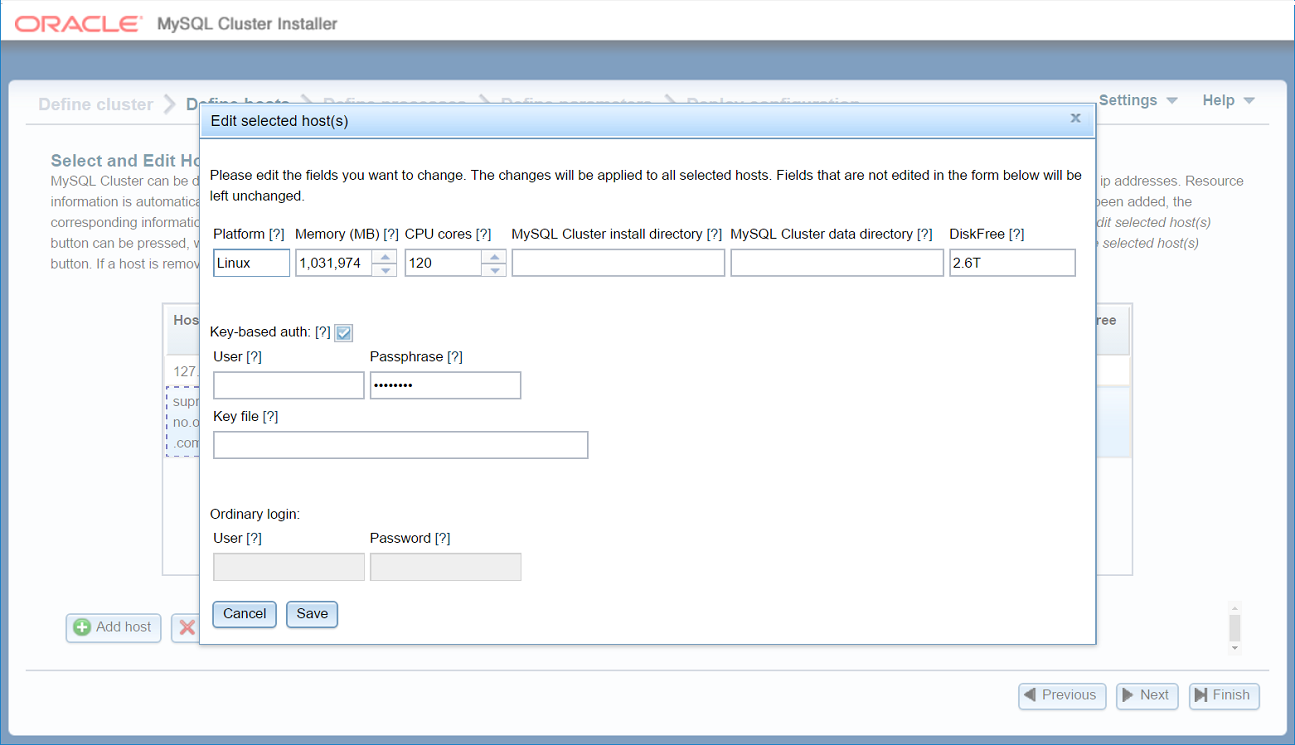
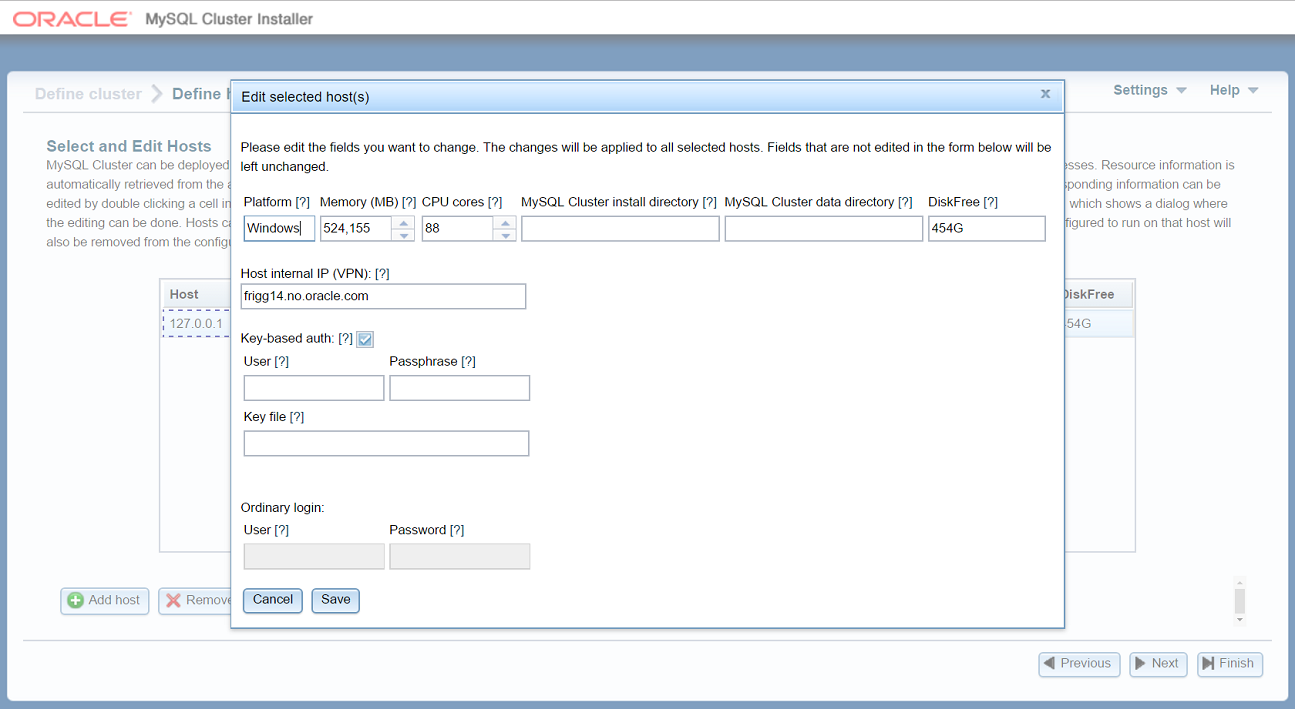
WL#10426: Introduced InternalIP member On cloud installations there is usually an external IP address used to SSH into the VM or machine. This IP address is not intended to be used internally between machines in the cloud. Communications between nodes in the cluster is most likely happening internal

diff --git a/storage/ndb/mcc/frontend/js/mcc/gui/hostdef.js b/storage/ndb/mcc/frontend/js/mcc/gui/hostdef.js
@@ -162,6 +162,8 @@ function addHostList(event) {
                         nhost[0].setValue("key_file", null);
                     }
                     nhost[0].setValue("key_auth", dijit.byId("sd_key_auth").get("checked"));
+                    if (dijit.byId("sd_IntIP").getValue())
+                        nhost[0].setValue("internalIP", dijit.byId("sd_IntIP").get("value"));
                     mcc.util.dbg("Saving credentials for new host " + nhost[0].getValue("name"));
                     mcc.storage.hostStorage().save();
                     mcc.storage.getHostResourceInfo(
@@ -238,7 +240,10 @@ function addHostsDialogSetup() {
                     <p>\
                         Host name: \
                         <span class=\"helpIcon\" id=\"hostlist_qm\">[?]</span>\
-                        <span id='hostlist'></span>\
+                        <br /><span id='hostlist'></span>\
+                        <br />Host internal IP (VPN): \
+                        <span class=\"helpIcon\" id=\"sd_IntIP_qm\">[?]</span>\
+                        <br /><span id='sd_IntIP'></span>\
                         <br /><br />Key-based auth: \
                         <span class=\"helpIcon\" id=\"sd_key_auth_qm\">[?]</span>\
                         <span id='sd_key_auth'></span>\
@@ -296,12 +301,19 @@ function addHostsDialogSetup() {
         });
         // Must connect outside of html to be in scope of function
         dojo.connect(dijit.byId("addHostsForm"), "onSubmit", addHostList);
-        var hostlist= new dijit.form.ValidationTextBox({style: "width: 250px"}, "hostlist");
+        var hostlist= new dijit.form.ValidationTextBox({style: "width: 245px"}, "hostlist");
         hostlist.required = true;
         hostlist.missingMessage = "This field must have value!";
         var hostlist_tt = new dijit.Tooltip({
             connectId: ["hostlist", "hostlist_qm"],
             label: "Name or ip addresses of host\
+                    to use for running MySQL cluster"
+        });
+
+        var sd_IntIP = new dijit.form.ValidationTextBox({style: "width: 245px"}, "sd_IntIP");
+        var sd_IntIP_tt = new dijit.Tooltip({
+            connectId: ["sd_IntIP", "sd_IntIP_qm"],
+            label: "If running Cluster inside VPN, internal ip addresses of host\
                     to use for running MySQL cluster"
         });
 
@@ -356,7 +368,7 @@ function addHostsDialogSetup() {
                 label: "Passphrase for the key."
             });
 
-            var sd_key_file = new dijit.form.TextBox({style: "width: 300px"}, "sd_key_file");
+            var sd_key_file = new dijit.form.TextBox({style: "width: 245px"}, "sd_key_file");
             dojo.connect(sd_key_file, "onChange", updateHostAuth);
             var sd_key_file_tt = new dijit.Tooltip({
                 connectId: ["sd_key_file", "sd_key_file_qm"],
@@ -386,8 +398,8 @@ function saveSelectedHosts(event) {
                     getValue(selection[i], "uname");
             if (dijit.byId("uname").getValue() && dijit.byId("uname").getValue() != uname) {
                 uname = dijit.byId("uname").getValue();
-                mcc.storage.hostStorage().store().setValue(selection[i], 
-                    "uname", uname);
+                mcc.storage.hostStorage().store().setValue(selection[i],
+                     "uname", uname);
                 mcc.util.dbg("Updating uname, check predef dirs");
                 // If we changed platform, we need to update predef dirs
                 if (mcc.storage.hostStorage().store().getValue(selection[i], 
@@ -442,6 +454,11 @@ function saveSelectedHosts(event) {
             if (dijit.byId("diskfree").getValue() && dijit.byId("diskfree").getValue() != hsval) {
                 mcc.storage.hostStorage().store().setValue(selection[i], 
                         "diskfree", dijit.byId("diskfree").getValue());
+            }
+
+            if (dijit.byId("sd_IntIPedit").getValue()) {
+                mcc.storage.hostStorage().store().setValue(selection[i], 
+                        "internalIP", dijit.byId("sd_IntIPedit").getValue());
             }
             // Update credentials if necessary.
             if (dijit.byId("sd_usredit").getValue()) {
@@ -579,6 +596,9 @@ function editHostsDialogSetup() {
                             <td><span id='diskfree'></span></td>\
                         </tr>\
                     </table>\
+                    <br />Host internal IP (VPN): \
+                    <span class=\"helpIcon\" id=\"sd_IntIPedit_qm\">[?]</span>\
+                    <br /><span id='sd_IntIPedit'></span>\
                     <br /><br />Key-based auth: \
                     <span class=\"helpIcon\" id=\"sd_key_authedit_qm\">[?]</span>\
                     <span id='sd_key_authedit'></span>\
@@ -679,6 +699,13 @@ function editHostsDialogSetup() {
             connectId: ["diskfree_qm"],
             label: getFieldTT("diskfree")
         });
+
+        var sd_IntIPedit = new dijit.form.ValidationTextBox({style: "width: 245px"}, "sd_IntIPedit");
+        var sd_IntIPedit_tt = new dijit.Tooltip({
+            connectId: ["sd_IntIPedit", "sd_IntIPedit_qm"],
+            label: "If running Cluster inside VPN, internal ip addresses of host\
+                    to use for running MySQL cluster"
+        });
         
         // Credentials definition
         var sd_key_authedit = new dijit.form.CheckBox({}, "sd_key_authedit");
@@ -727,7 +754,7 @@ function editHostsDialogSetup() {
             label: "Passphrase for the key."
         });
 
-        var sd_key_fileedit = new dijit.form.TextBox({style: "width: 300px"}, "sd_key_fileedit");
+        var sd_key_fileedit = new dijit.form.TextBox({style: "width: 245px"}, "sd_key_fileedit");
         dojo.connect(sd_key_fileedit, "onChange", updateHostAuthE);
         var sd_key_fileedit_tt = new dijit.Tooltip({
             connectId: ["sd_key_fileedit", "sd_key_fileedit_qm"],
@@ -815,13 +842,19 @@ function hostGridSetup() {
         var selection = hostGrid.selection.getSelected();
         if (selection && selection.length > 0) {
             for (var i in selection) {
-
                 dijit.byId("uname").setValue(mcc.storage.hostStorage().store().getValue(selection[i], "uname"));//null);
                 dijit.byId("ram").setValue(mcc.storage.hostStorage().store().getValue(selection[i], "ram"));//null);
                 dijit.byId("cores").setValue(mcc.storage.hostStorage().store().getValue(selection[i], "cores"));//null);
-                dijit.byId("installdir").setValue(null); //Needs to account for termination!
-                dijit.byId("datadir").setValue(null); //Needs to account for termination!
+                dijit.byId("installdir").setValue(null);
+                dijit.byId("datadir").setValue(null);
                 dijit.byId("diskfree").setValue(mcc.storage.hostStorage().store().getValue(selection[i], "diskfree")); //null);
+
+                var val = mcc.storage.hostStorage().store().getValue(selection[i], "internalIP");
+                if (val) {
+                    dijit.byId("sd_IntIPedit").setValue(val);
+                } else {
+                    dijit.byId("sd_IntIPedit").setValue(null);
+                }
 
                 var hasCreds = false;
                 var val = mcc.storage.hostStorage().store().getValue(selection[i], "usr");

diff --git a/storage/ndb/mcc/frontend/hlp/html/help_cnt.html b/storage/ndb/mcc/frontend/hlp/html/help_cnt.html
@@ -357,7 +357,7 @@ Default path to wizard startup command: <tt>C:\Program Files\MySQL_blabla\bin\nd
     at the first page. </li>
 <li><i>Automatically save configuration as cookies: </i>This will save your 
     configuration information (host names, processes, parameter values etc.) as 
-    a cookie in the browser you are using. All information <b>except the SSH password</b> 
+    a cookie in the browser you are using. All information <b>but password/passphrase</b> 
     will be saved. Hence, you can quit and restart you browser, and continue 
     working on the same configuration. </li>
 <li><i>Show advanced configuration options: </i>This setting means that advanced 
@@ -521,8 +521,8 @@ Default path to wizard startup command: <tt>C:\Program Files\MySQL_blabla\bin\nd
 </p>
 
 <p>Here, hosts can be added by pressing the <i>Add hosts</i> button and entering 
-    host name or ip address as well as credentials which are saved on Host level 
-    (host.mcc_hostStore cookie), passwords/passphrases excluded. Field 
+    host name or external ip address as well as credentials which are saved on
+    Host level (host.mcc_hostStore cookie), passwords/passphrases excluded. Field 
     <i>Key_file<i> should point to private key file to be used with selected host
     (i.e. C:\Users\user\.ssh\key_file_name).
     Please bear in mind that, since passwords are not persisted over sessions,
@@ -564,6 +564,46 @@ Default path to wizard startup command: <tt>C:\Program Files\MySQL_blabla\bin\nd
 <p style="text-align: center">
     <img src="../img/edit_selected_hosts.png" width="800" alt="Edit selected hosts">
 </p>
+
+<h4>Details on hosts naming</h4>
+<p>One should always keep in mind the goal, i.e. deployment of the Cluster over  
+    any number of hosts. The nodes are governed by config.ini file, distributed 
+    to each one, containing hosts designation on process basis as well as  
+    connection strings. It might look like this:<br/>
+    <code>[NDB_MGMD]
+    <br/>NodeId=49
+    <br/>HostName=10.172.165.190
+    <br/>DataDir=C:/Users/user/MySQL_Cluster/49/
+    <br/>Portnumber=1186
+    <br/>[NDBD]
+    <br/>NodeId=2
+    <br/>HostName=10.172.162.24
+    <br/>DataDir=C:/Users/user/MySQL_Cluster/2/</code><br/>
+    In this particular case, HostName=10.172.162.24 is actually localhost defined as
+    Name=127.0.0.1 but when config.ini is distributed to second host, 127.0.0.1 will
+    point to that host (10.172.165.190) and the Cluster will not start. This is why 
+    following mechanism is implemented:<br/>
+    When you enter Host=..., back-end Python web server fetches fully qualified domain
+    name (FQDN) based on your input and stores it in Host cookie store. It also copies
+    FQDN to InternalIP member if that one is empty. We encourage you to also enter 
+    Internal IP when adding/editing hosts if Cluster is running inside VPN (say Cloud
+    deployment).<br/>
+    Let's recapitulate various scenarios:
+    <ul>
+    <li><b>Small localhost deployment: </b> 
+        Just leave default 127.0.0.1 in HostList on 1st page. </li>
+    <li><b>Small deployment, home or office network: </b>
+        Leave default 127.0.0.1 in HostList on 1st page, add other hosts using 
+        "Add Host" button on next page. You can safely ignore InternalIP member. </li>
+    <li><b>Deployment to Cloud/other VPN environment: </b>
+        If you are using localhost too, edit that host on 2nd page and add Internal IP 
+        information. When adding hosts on 2nd page, fill in Internal IP member. </li>
+    </ul>
+    MCC will always use FQDN member to connect, distribute configuration and start processes
+    while configuration files and Cluster processes will always use Internal IP member.
+    This way there can be no confusion as to what "localhost" means and the communication
+    between nodes will be as fast as possible bypassing possible errors on DNS level.
+    </p>
 
 <!-- ======================= Define processes ============================== -->
 

diff --git a/storage/ndb/mcc/frontend/js/mcc/configuration/deploy.js b/storage/ndb/mcc/frontend/js/mcc/configuration/deploy.js
@@ -269,7 +269,7 @@ function verifyConfiguration() {
     // Alert if NoOfReplicas==2 for an odd number of data nodes
     var noOfReplicas = getEffectiveTypeValue(processFamilyMap['data'], 'NoOfReplicas');
     if (processFamilyInstances('data').length % 2 == 1 && noOfReplicas == 2) {
-        alert("With an uneven number of data nodes, the number of replicas " +
+        alert("With an odd number of data nodes, the number of replicas " +
         "(NoOfReplicas) must be set to 1");
         return false;
     }
@@ -689,15 +689,15 @@ function getEffectiveInstalldir(host) {
     return host.getValue("installdir");
 }
 
-// Get the connect string for this cluster, use FQDN and not hostname.
+// Get the connect string for this cluster, use FQDN/internalIP and not hostname.
 function getConnectstring() {
     var connectString = "";
     var mgmds = processTypeInstances("ndb_mgmd");
     // Loop over all ndb_mgmd processes
     for (var i in mgmds) {
         var port = getEffectiveInstanceValue(mgmds[i], "Portnumber");
-        // Use fqdn instead of name:
-        var host = clusterItems[mgmds[i].getValue("host")].getValue("fqdn");
+        // Use internal IP instead of name:
+        var host = clusterItems[mgmds[i].getValue("host")].getValue("internalIP");
         connectString += host + ":" + port + ",";
     }
     return connectString;
@@ -817,7 +817,7 @@ function getCreateCommands() {
             // Get datadir and dir separator
             var datadir = mcc.util.unixPath(
                     mcc.util.terminatePath(
-                            getEffectiveInstanceValue(process, "DataDir")));
+                        getEffectiveInstanceValue(process, "DataDir")));
             var dirSep = mcc.util.dirSep(datadir);
 
             // Push the create datadir command unless mysqld

diff --git a/storage/ndb/mcc/frontend/js/mcc/storage/MCCStorage.js b/storage/ndb/mcc/frontend/js/mcc/storage/MCCStorage.js
@@ -423,8 +423,8 @@ function getHostResourceInfo(hostName, hostId, showAlert, override) {
                         }
                         if (!host.getValue("datadir") &&
                                 reply.body.hostRes.datadir) {
-                            var path = mcc.util.terminatePath(
-                                    reply.body.hostRes.datadir);
+                            var path = reply.body.hostRes.datadir.replace(/(\r\n|\n|\r)/gm,"");
+                            path = mcc.util.terminatePath(path);
                             if (mcc.util.isWin(host.getValue("uname"))) {
                                 path = mcc.util.winPath(path);
                             } else {
@@ -438,6 +438,10 @@ function getHostResourceInfo(hostName, hostId, showAlert, override) {
                         }
                         if (!host.getValue("fqdn") || override) {
                             host.setValue("fqdn", reply.body.hostRes.fqdn);
+                        }
+                        if (!host.getValue("internalIP")) {
+                            // Use FQDN as default value for internal IP.
+                            host.setValue("internalIP", host.getValue("fqdn"));
                         }
                         hostStorage.save();
 

diff --git a/storage/ndb/mcc/frontend/js/mcc/configuration/calculations.js b/storage/ndb/mcc/frontend/js/mcc/configuration/calculations.js
@@ -723,9 +723,9 @@ function instanceSetup(processFamilyName, processItem) {
             mcc.configuration.setPara(processFamilyName, id, "HostName",
                     "defaultValueInstance", null);
         } else {
-            //Use HostName=FQDN to avoid mixing LOCAL & REMOTE hosts.
+            //Use HostName=internalIP to avoid mixing LOCAL & REMOTE hosts.
             mcc.configuration.setPara(processFamilyName, id, "HostName",
-                    "defaultValueInstance", host.getValue("fqdn"));
+                    "defaultValueInstance", host.getValue("internalIP"));
         }
 
         // Get prototypical process type and do process specific assignments

diff --git a/storage/ndb/mcc/frontend/js/mcc/gui/deploymenttree.js b/storage/ndb/mcc/frontend/js/mcc/gui/deploymenttree.js
@@ -545,7 +545,7 @@ function doPoll() {
         );
     };
     
-    // If not overridden, get predefined host. Note, old code which returns FQDN now,
+    // If not overridden, get predefined host. Note, old code which returns FQDN/internalIP now,
     // left here in case both above methods fail.
     if (!host) {
         host = mcc.configuration.getPara("management", 
